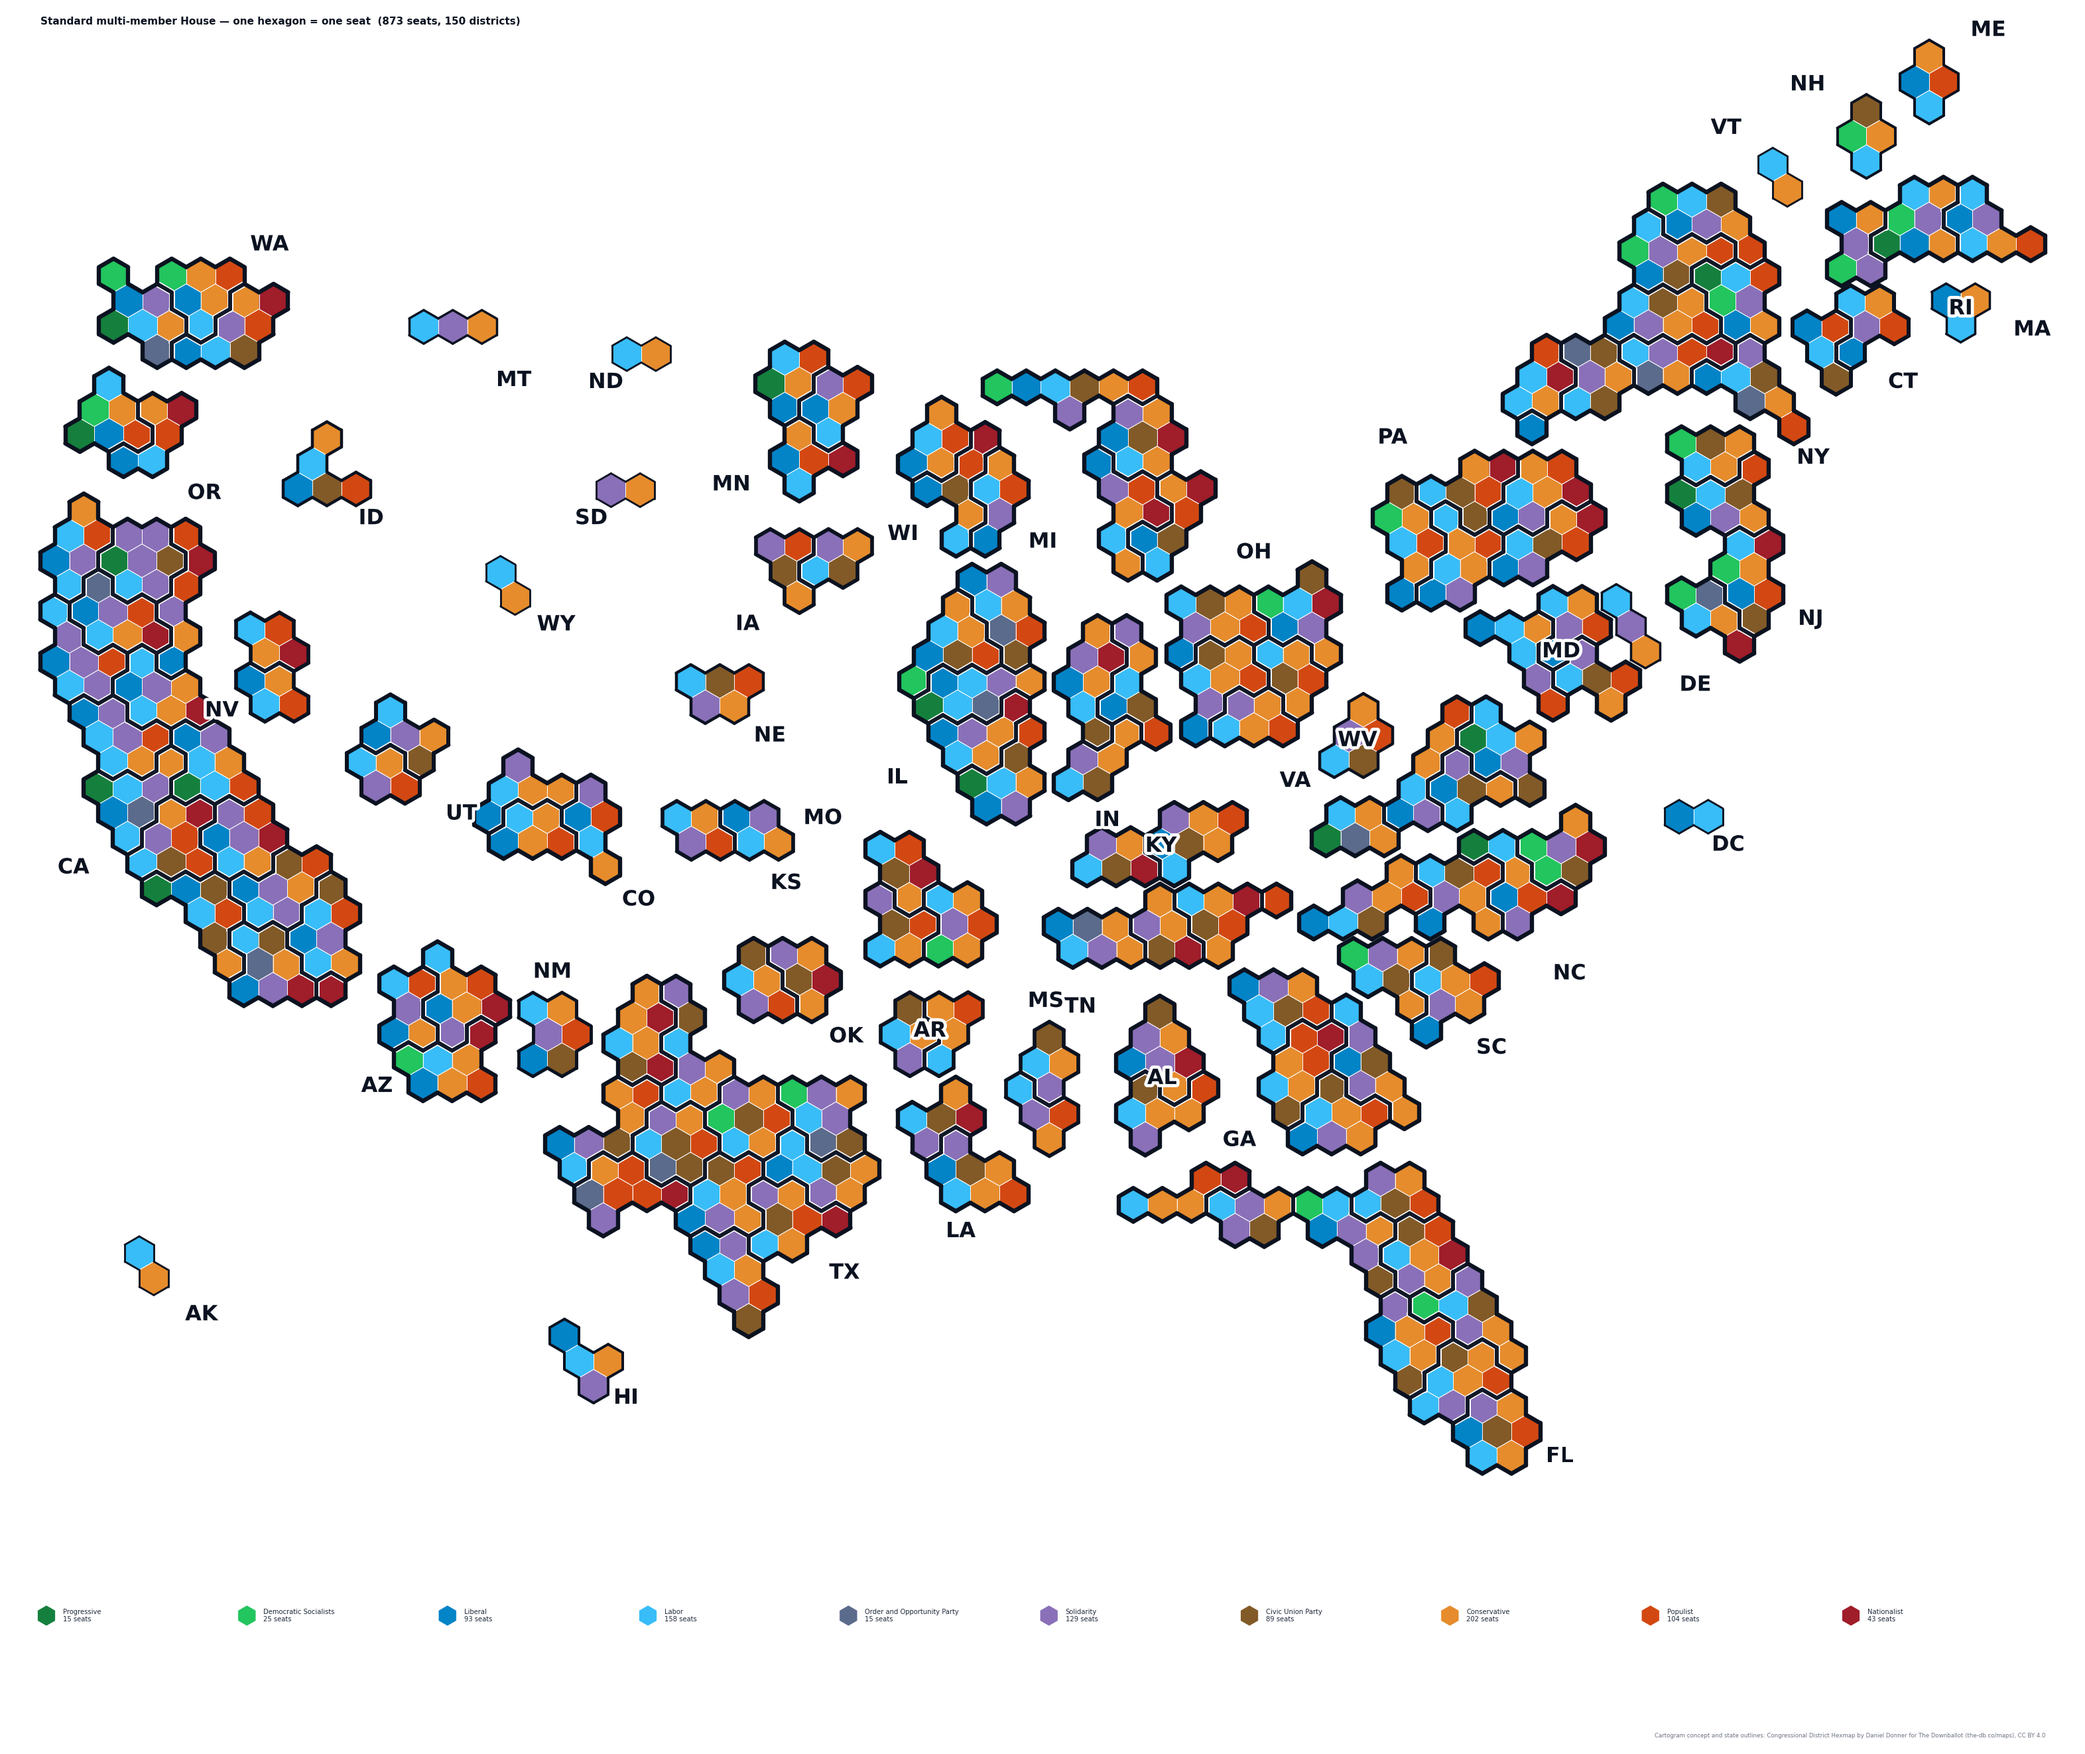
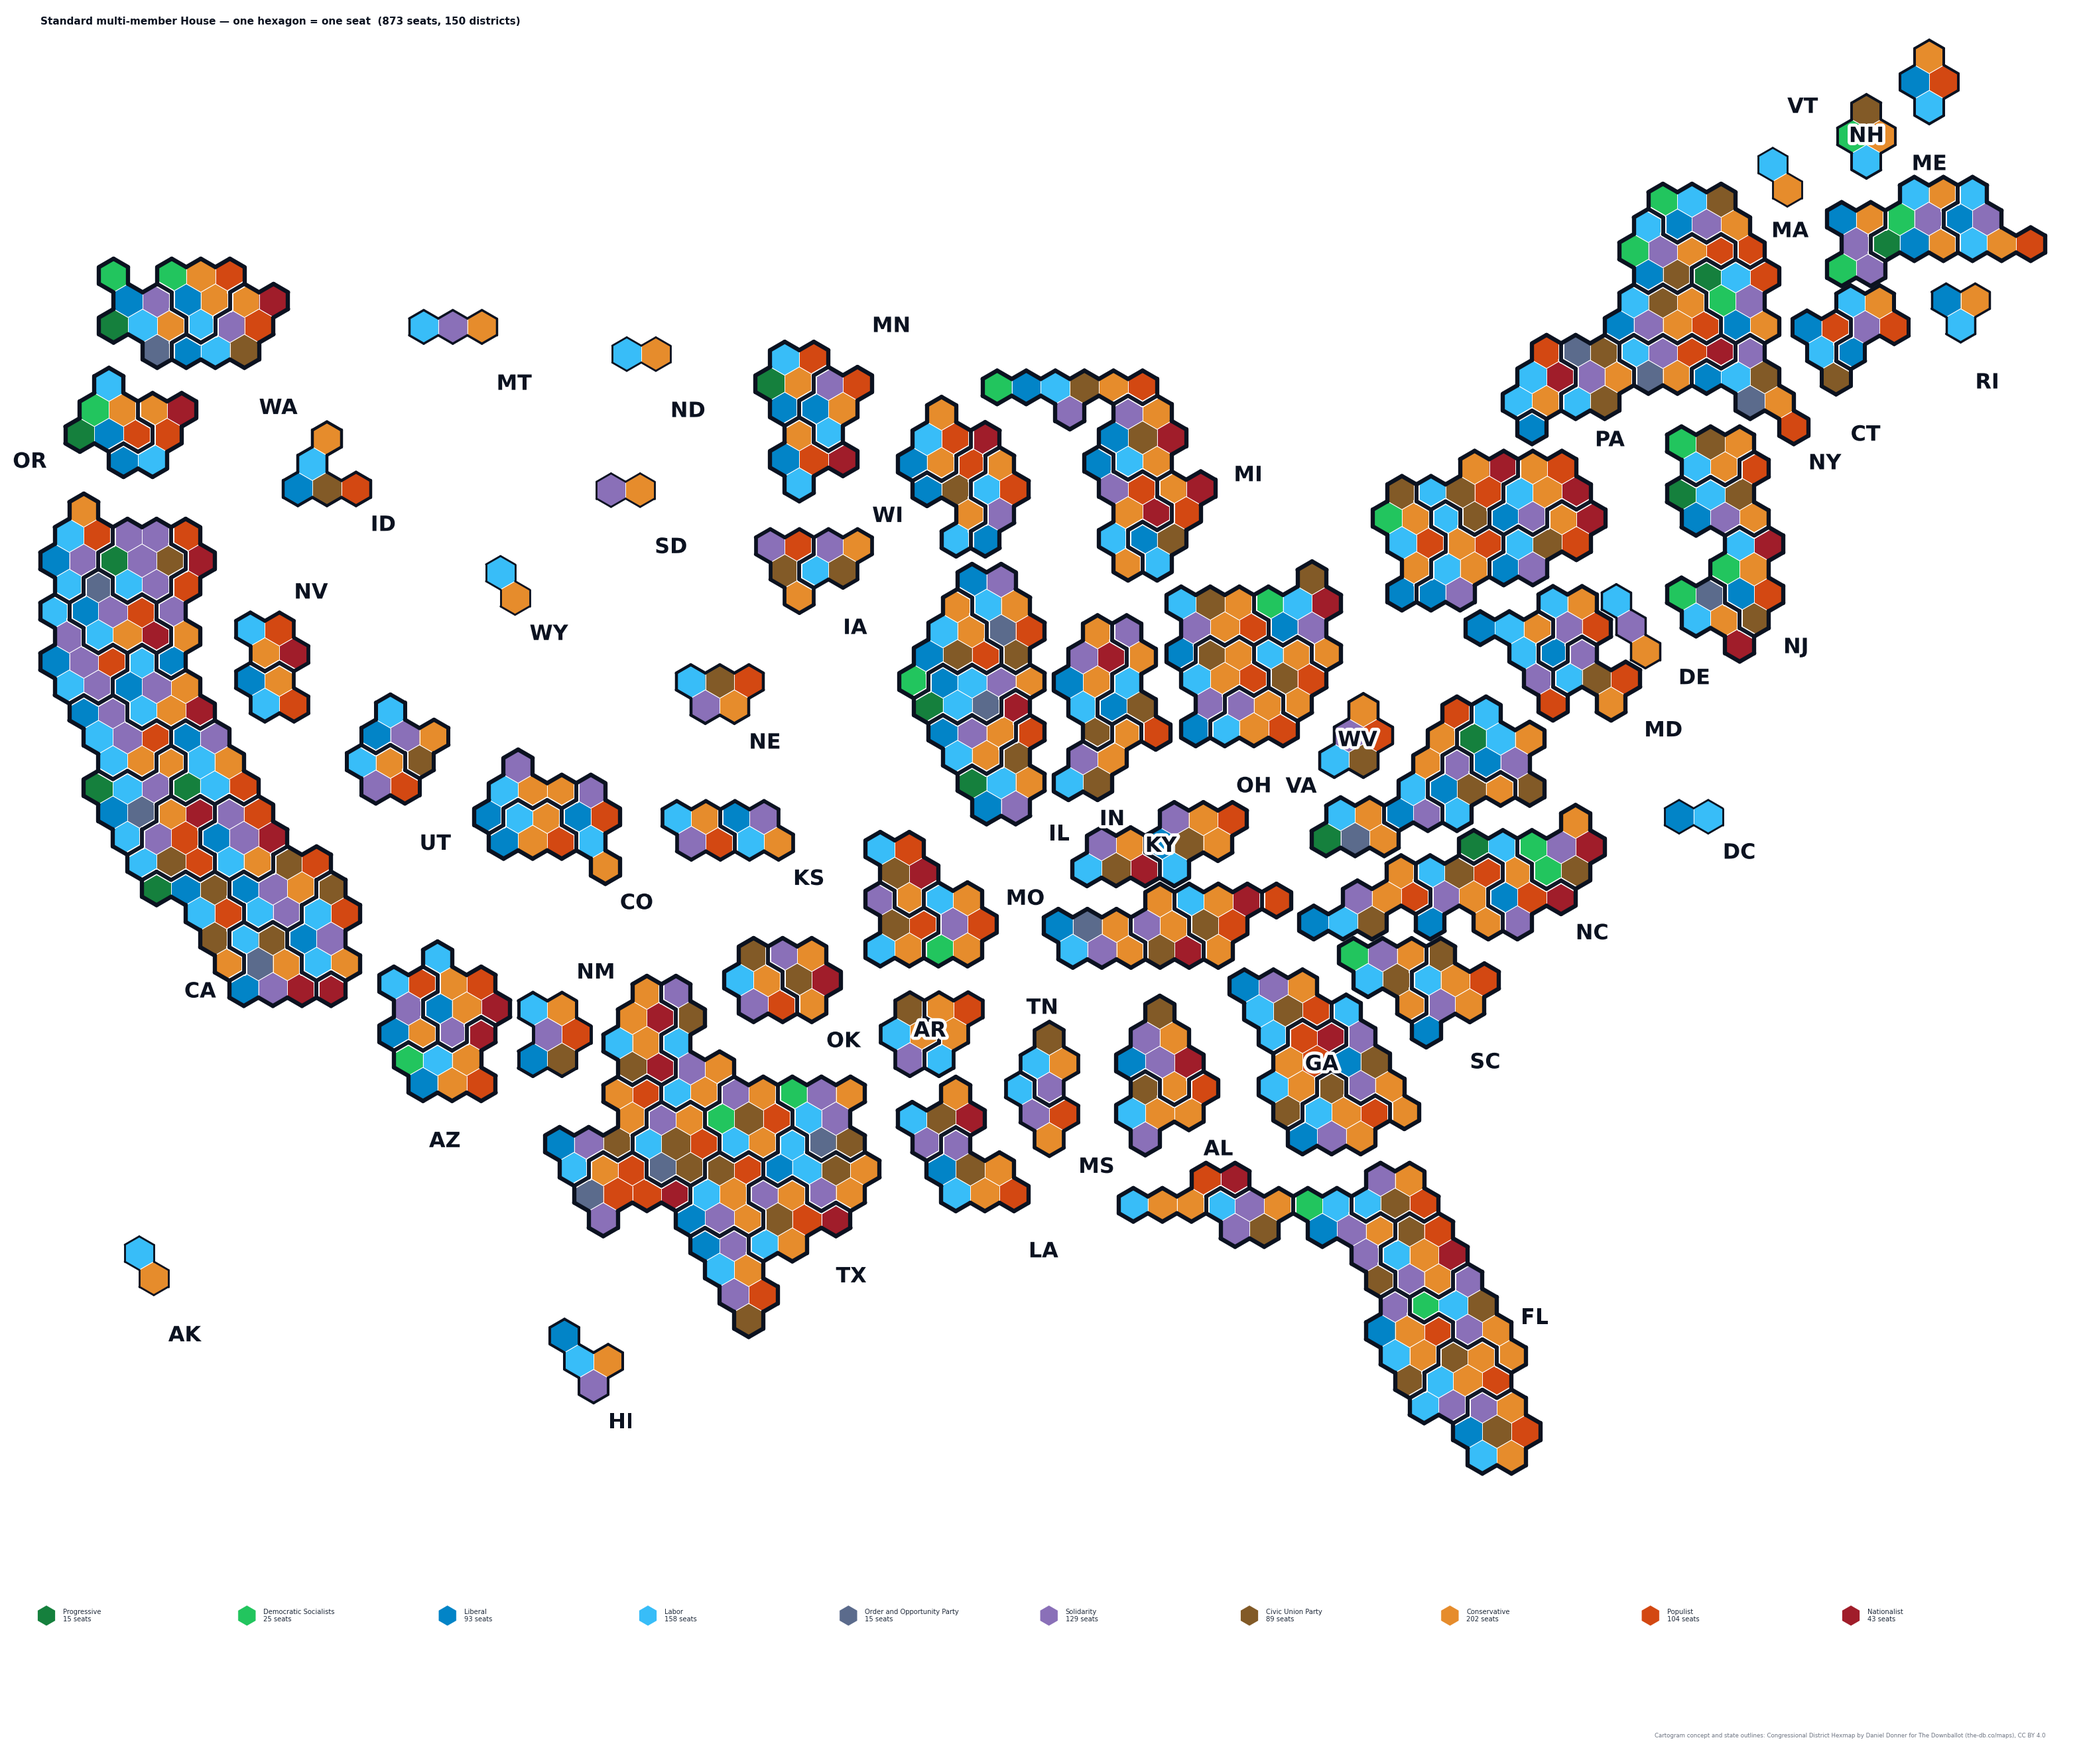
Keep every state label outside its state, with leader lines where boxed in
Widen the placement search and the label-to-label margin, add a radial last resort, and
draw a leader line whenever the label had to go more than 2R out. CT and GA were landing
inside their own states and OH/WV were touching; now nothing sits on a state or on
another label, and the wedged-in ones (DE, NJ, NH, WV) read the way they do on a printed
map.

diff --git a/pipeline/render_hex_seat_cartogram.py b/pipeline/render_hex_seat_cartogram.py
@@ -334,7 +334,8 @@ def main():
                 order_here = [PREFERRED[ab]] + [c for c in CANDIDATES
                                                 if c != PREFERRED[ab]]
             for side, bias in order_here:
-                for gap in (0.55 * R, 1.1 * R, 1.8 * R):
+                for gap in (0.55 * R, 1.1 * R, 1.8 * R, 2.8 * R, 4.2 * R,
+                            6.0 * R, 8.5 * R):
                     ax_, ay_, ha, va = anchor_for(pts, side, bias, gap)
                     lx0 = (ax_ if ha == "left" else ax_ - lab_w if ha == "right"
                            else ax_ - lab_w / 2)
@@ -345,23 +346,60 @@ def main():
                             & (occupied[:, 1] > ly0 - m)
                             & (occupied[:, 1] < ly0 + lab_h + m)).any():
                         continue        # would sit on some state's tiles
-                    box = (lx0 - 0.5 * lab_h, ly0 - 0.4 * lab_h,
-                           lx0 + lab_w + 0.5 * lab_h, ly0 + lab_h + 0.4 * lab_h)
+                    box = (lx0 - 0.85 * lab_h, ly0 - 0.5 * lab_h,
+                           lx0 + lab_w + 0.85 * lab_h, ly0 + lab_h + 0.5 * lab_h)
                     if any(box[0] < b[2] and b[0] < box[2]
                            and box[1] < b[3] and b[1] < box[3] for b in taken):
                         continue        # would sit on another label
-                    chosen = (ax_, ay_, ha, va, box, side, bias)
+                    chosen = (ax_, ay_, ha, va, box, side, bias, gap, pts)
                     break
                 if chosen:
                     break
             if chosen is None:
+                # Ringed in on every side (West Virginia). Sweep outward in all
+                # directions for the first clear spot; a leader line will connect it.
                 cx, cy = shift(ab, centroids[ab])
-                chosen = (cx, cy, "center", "center", None, "none", "none")
+                reach0 = max(math.hypot(q[0] - cx, q[1] - cy) for q in pts)
+                for mult in (1.4, 1.9, 2.5, 3.2, 4.0):
+                    for k in range(24):
+                        ang = 2 * math.pi * k / 24
+                        dx, dy = math.cos(ang), math.sin(ang)
+                        ax_, ay_ = cx + dx * reach0 * mult, cy + dy * reach0 * mult
+                        ha = "left" if dx > 0.3 else "right" if dx < -0.3 else "center"
+                        va = "bottom" if dy > 0.3 else "top" if dy < -0.3 else "center"
+                        lx0 = (ax_ if ha == "left" else ax_ - lab_w if ha == "right"
+                               else ax_ - lab_w / 2)
+                        ly0 = (ay_ if va == "bottom" else ay_ - lab_h if va == "top"
+                               else ay_ - lab_h / 2)
+                        m = 0.95 * R
+                        if ((occupied[:, 0] > lx0 - m) & (occupied[:, 0] < lx0 + lab_w + m)
+                                & (occupied[:, 1] > ly0 - m)
+                                & (occupied[:, 1] < ly0 + lab_h + m)).any():
+                            continue
+                        box = (lx0 - 0.85 * lab_h, ly0 - 0.5 * lab_h,
+                               lx0 + lab_w + 0.85 * lab_h, ly0 + lab_h + 0.5 * lab_h)
+                        if any(box[0] < b[2] and b[0] < box[2]
+                               and box[1] < b[3] and b[1] < box[3] for b in taken):
+                            continue
+                        chosen = (ax_, ay_, ha, va, box, "far", "sweep", 9.9 * R, pts)
+                        break
+                    if chosen:
+                        break
+            if chosen is None:
+                cx, cy = shift(ab, centroids[ab])
+                chosen = (cx, cy, "center", "center", None, "none", "none", 0.0, pts)
             if chosen[4]:
                 taken.append(chosen[4])
             placements[ab] = chosen
 
         for ab, pl in placements.items():
+            # A state wedged between neighbours has no room beside it, so its label goes
+            # out into open space with a leader line back — standard practice for
+            # Delaware and Rhode Island on any printed map.
+            if pl[7] > 2.0 * R:
+                near = min(pl[8], key=lambda q: (q[0] - pl[0]) ** 2 + (q[1] - pl[1]) ** 2)
+                ax.plot([near[0], pl[0]], [near[1], pl[1]], color="#0b1220",
+                        lw=0.7 * lw, zorder=5, solid_capstyle="round")
             ax.text(pl[0], pl[1], ab, ha=pl[2], va=pl[3], zorder=6,
                     fontsize=fs, fontweight="bold", color="#0b1220",
                     path_effects=[matplotlib.patheffects.withStroke(
